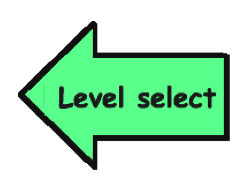
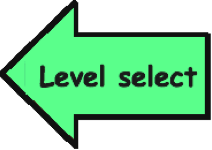
Back button in game over/win takes you to level select, edited game over/win state in drawGame() so there's less code

diff --git a/core/src/com/missionbit/snailassalt/SnailAssalt.java b/core/src/com/missionbit/snailassalt/SnailAssalt.java
@@ -416,7 +416,7 @@ public class SnailAssalt extends ApplicationAdapter {
                         House.hp -= enemy.Attack * Gdx.graphics.getDeltaTime();
                 }
             }
-            if (House.hp <= 0) {gameState = GameState.GAMEOVER;}
+            if (House.hp <= 0 || loseButton.isPressed()) {gameState = GameState.GAMEOVER;}
             if(enemies.size()==0){gameState= GameState.WIN;}
         }
         /*
@@ -463,7 +463,9 @@ public class SnailAssalt extends ApplicationAdapter {
             batch.begin();
             menu.draw(batch);
             startButtonMenu.sprite.draw(batch);
-            tutorialButton.sprite.draw(batch);
+            if (preferences.getInteger("tutorial", 0) == 1) {
+                tutorialButton.sprite.draw(batch);
+            }
             creditsButton.sprite.draw(batch);
             shopButtonMenu.sprite.draw(batch);
             //font.draw(batch, "Current state: main menu", 10, height);
@@ -553,7 +555,7 @@ public class SnailAssalt extends ApplicationAdapter {
             batch.begin();
             laun.draw(batch);
             house.draw(batch);
-            //batch.draw(loseButton.sprite, loseButton.position.x, loseButton.position.y);
+            batch.draw(loseButton.sprite, loseButton.position.x, loseButton.position.y);
             saltButton.sprite.draw(batch);
             batch.draw(jimmy.sprite,jimmy.bound.x,jimmy.bound.y);
             if (weaponState == WeaponState.REGWEAPON) {waterGun.sprite.draw(batch);}
@@ -589,18 +591,11 @@ public class SnailAssalt extends ApplicationAdapter {
          - redo level button
          - shop button
         */
-        else if (gameState == GameState.GAMEOVER) { //in game over
+        else if (gameState == GameState.GAMEOVER || gameState == GameState.WIN) { //in game over/win
             batch.begin();
-            gameover.draw(batch);
-            backButtonGameEnd.sprite.draw(batch);
-            redoLevelButton.sprite.draw(batch);
-            shopButtonGameEnd.sprite.draw(batch);
-            batch.end();
-        }
-        else if (gameState == GameState.WIN) { //in win
-            batch.begin();
-            win.draw(batch);
-            backButtonGameEnd.sprite.draw(batch);
+            if (gameState == GameState.GAMEOVER) {gameover.draw(batch);}
+            else {win.draw(batch);}
+            backButtonGameEnd.spriteNope.draw(batch);
             redoLevelButton.sprite.draw(batch);
             shopButtonGameEnd.sprite.draw(batch);
             batch.end();

diff --git a/core/src/com/missionbit/snailassalt/BackButton.java b/core/src/com/missionbit/snailassalt/BackButton.java
@@ -4,15 +4,25 @@ package com.missionbit.snailassalt;
  */
 public class BackButton extends Button {
     public BackButton(float x, float y) {
-        super(x, y, "back button.png", "backButtonNope.png");
+        super(x, y, "back button.png", "levelselect.png");
     }
     public void pressedAction() {
-        if (SnailAssalt.prevGameState == SnailAssalt.GameState.GAMEOVER) {SnailAssalt.gameState = SnailAssalt.prevGameState;}
-        else if (SnailAssalt.prevGameState == SnailAssalt.GameState.WIN) {SnailAssalt.gameState = SnailAssalt.prevGameState;}
-        else {
-            SnailAssalt.gameState = SnailAssalt.GameState.MAINMENU;
-            SnailAssalt.tutState = SnailAssalt.TutorialState.PAGE1;
+        if (SnailAssalt.prevGameState == SnailAssalt.GameState.GAMEOVER || SnailAssalt.prevGameState == SnailAssalt.GameState.WIN) {
+            SnailAssalt.gameState = SnailAssalt.prevGameState;
         }
+        else if (SnailAssalt.gameState == SnailAssalt.GameState.TUTORIAL) {
+            if (SnailAssalt.tutState == SnailAssalt.TutorialState.PAGE4) {
+                SnailAssalt.preferences.putInteger("tutorial", 1);
+                SnailAssalt.tutState = SnailAssalt.TutorialState.PAGE1;
+            }
+            if (SnailAssalt.preferences.getInteger("tutorial", 1) == 1) {
+                SnailAssalt.gameState = SnailAssalt.GameState.LEVELSELECT;
+            }
+        }
+        else if (SnailAssalt.gameState == SnailAssalt.GameState.GAMEOVER || SnailAssalt.gameState == SnailAssalt.GameState.WIN)
+            SnailAssalt.gameState = SnailAssalt.GameState.LEVELSELECT;
+        else
+            SnailAssalt.gameState = SnailAssalt.GameState.MAINMENU;
         SnailAssalt.prevGameState = null; //clear prevGameState
     }
 }
